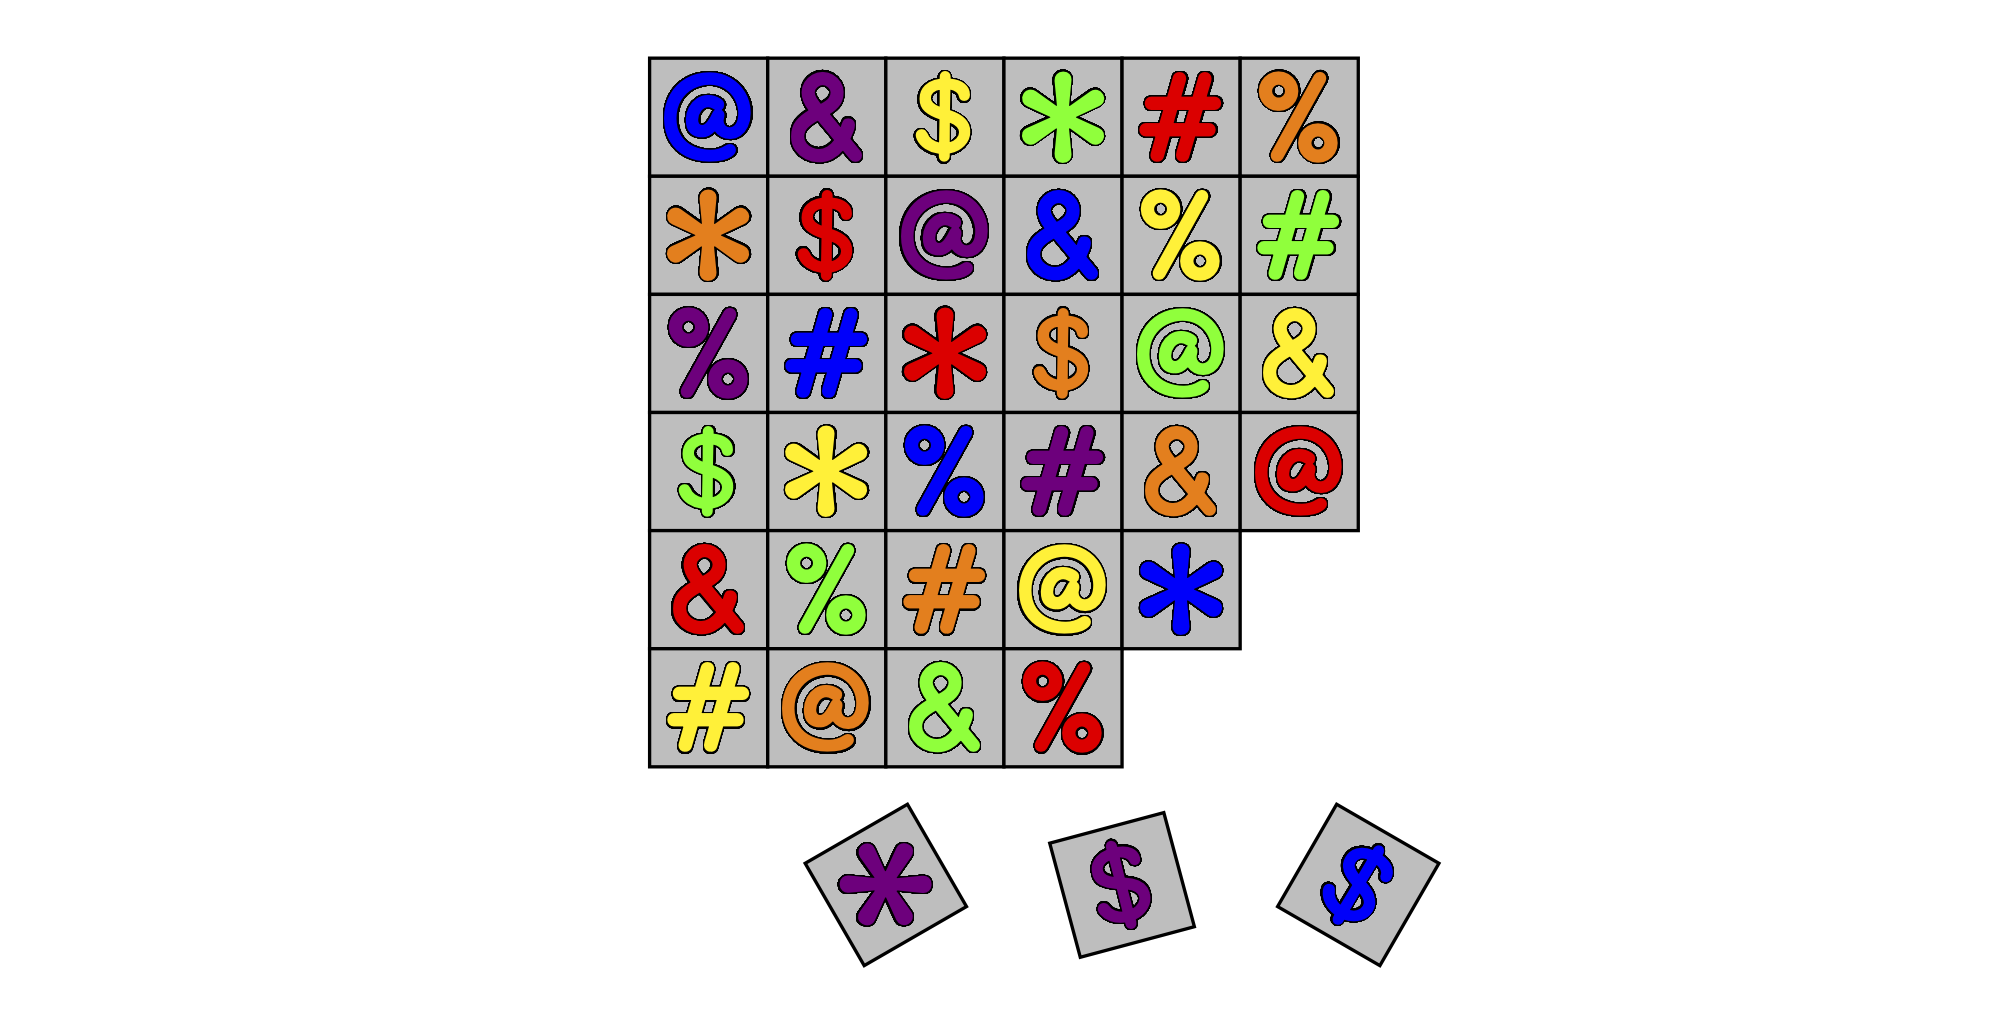
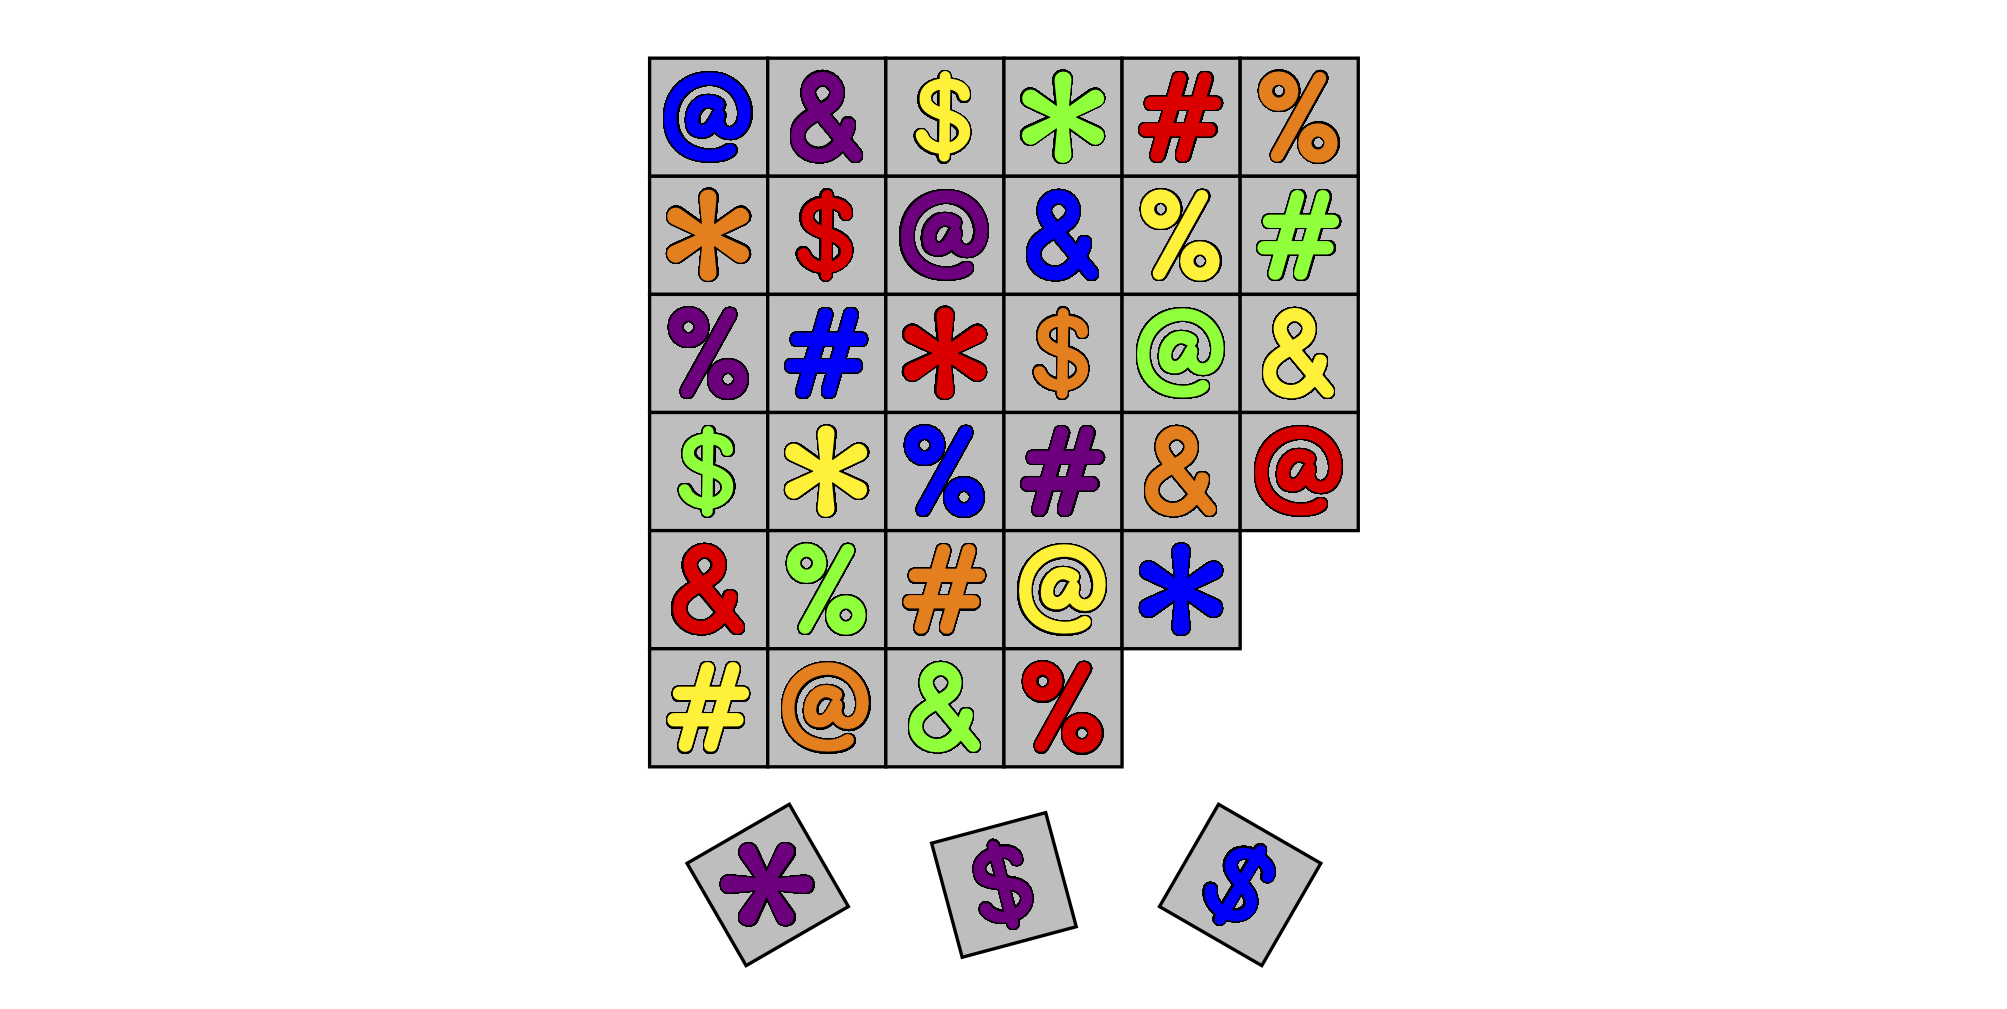
Initial commit of Grawlix rules leaflet

Changed region(s): [[0.3398, 0.7988, 0.7105, 0.9524]]

diff --git a/calling_card.tex b/calling_card.tex
@@ -35,14 +35,14 @@
 	\pic () at (\i,-2.5) {\k={\j}};
 }
 
-\node[tile, rotate=15] () at (1.75,-3.25) {};
-\pic[rotate=15] () at (1.75, -3.25) {dollar={violet}};
+\node[tile, rotate=15] () at (1.25,-3.25) {};
+\pic[rotate=15] () at (1.25, -3.25) {dollar={violet}};
 
-\node[tile, rotate=-30] () at (2.75,-3.25) {};
-\pic[rotate=-30] () at (2.75, -3.25) {dollar={blue}};
+\node[tile, rotate=-30] () at (2.25,-3.25) {};
+\pic[rotate=-30] () at (2.25, -3.25) {dollar={blue}};
 
-\node[tile, rotate=30] () at (0.75,-3.25) {};
-\pic[rotate=30] () at (0.75, -3.25) {asterisk={violet}};
+\node[tile, rotate=30] () at (0.25,-3.25) {};
+\pic[rotate=30] () at (0.25, -3.25) {asterisk={violet}};
 
 
 \path (-3,-3.5) to (5.5, 0.5);

diff --git a/grawlix_leaflet.tex b/grawlix_leaflet.tex
@@ -1,0 +1,34 @@
+\documentclass[a4paper, 10pt, notumble]{leaflet}
+\usepackage{grawlix}
+
+\begin{document}
+
+{
+\begin{center}
+\setmainfont{Quicksand-Medium}
+\footnotesize
+Version 0.1
+\end{center}
+
+
+\begin{center}
+\setmainfont[Scale=2.175]{Cooper Black}
+\Huge Grawlix
+\end{center}
+
+\vfill
+
+\begin{center}
+	\includegraphics[scale=0.275]{Images/cover_image.png}
+\end{center}
+
+\begin{center}
+\setmainfont{Quicksand-Medium}
+\Huge Michael Purcell
+\end{center}
+}
+
+\newpage
+
+This is a test
+\end{document}
